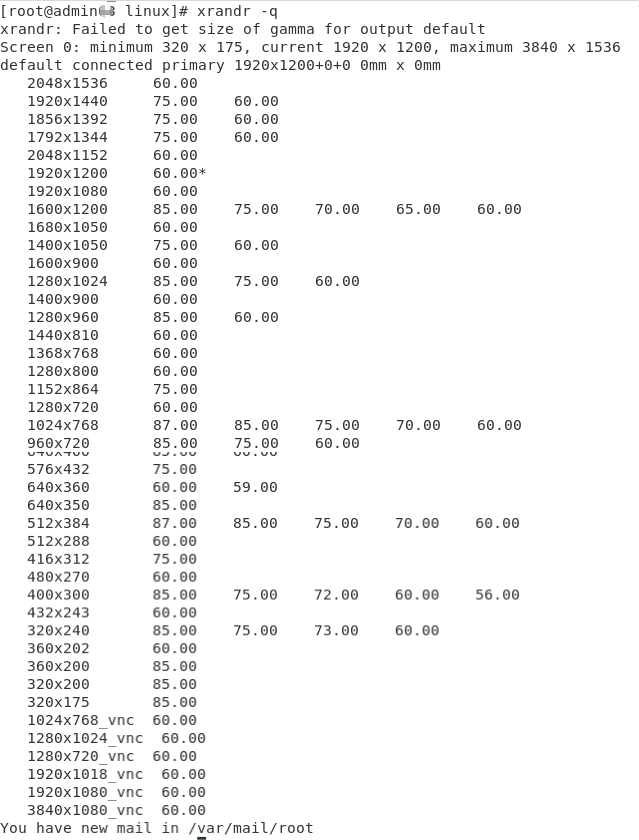
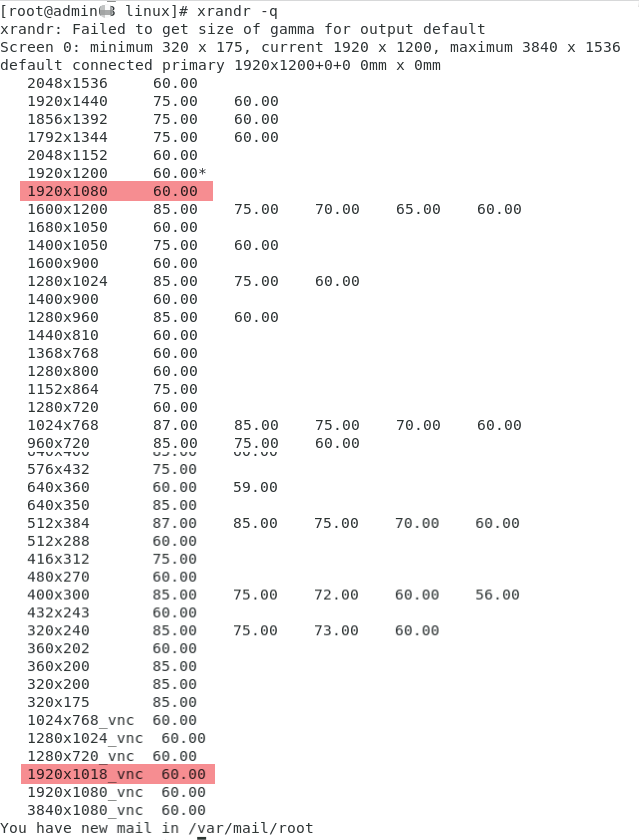
update xrandr不能修改realvnc

Changed region(s): [[0.0297, 0.8976, 0.3568, 0.9595], [0.0297, 0.2167, 0.3568, 0.2476]]

diff --git a/_posts/2023-03-08-realvnc-add-or-rm-resolution.md b/_posts/2023-03-08-realvnc-add-or-rm-resolution.md
@@ -17,10 +17,10 @@ categories: icenv-posts
 查看到两个1920x1080的配置<br/>
 ![xrandr -q结果](/assets/img/realvnc分辨率Snipaste_2023-03-08_13-08-11.png)
 
-使用xrandr删掉有问题的这个<br/>
+使用xrandr试着删掉其中一个，提示无法删除<br/>
 ![xrandr --delmode](/assets/img/xrandr删除分辨率失败Snipaste_2023-03-08_13-14-04.png)
 
-报错。经[google](https://bugs.freedesktop.org/show_bug.cgi?id=10369#c2)，说的是xrandr无法删除由X managed的mode。
+经[google](https://bugs.freedesktop.org/show_bug.cgi?id=10369#c2)，说的是xrandr无法删除由X managed的mode。
 
-从X[REALVNC手册](https://help.realvnc.com/hc/en-us/articles/360016058212-How-do-I-adjust-the-screen-resolution-of-a-virtual-desktop-under-Linux-#realvnc-dummy-driver-0-3)侧删除，/etc/X11/vncserver-virtual-dummy.conf，如果是较早的版本则是/etc/X11/vncserver-virtual.conf文件。将有问题的配置，从这个文件里移除，可将冲突的那个1920x1080删除，问题解决。
+从X[REALVNC手册](https://help.realvnc.com/hc/en-us/articles/360016058212-How-do-I-adjust-the-screen-resolution-of-a-virtual-desktop-under-Linux-#realvnc-dummy-driver-0-3)侧删除，/etc/X11/vncserver-virtual-dummy.conf，如果是较早的版本则是/etc/X11/vncserver-virtual.conf文件。尝试将其一从这个文件里移除，问题即解决。
 
